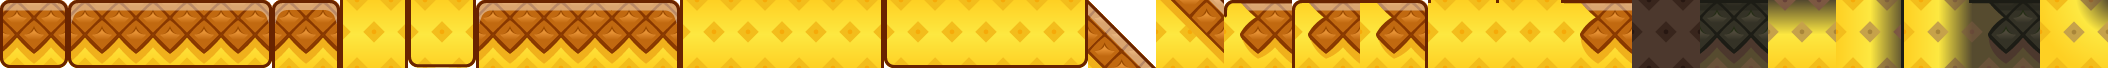
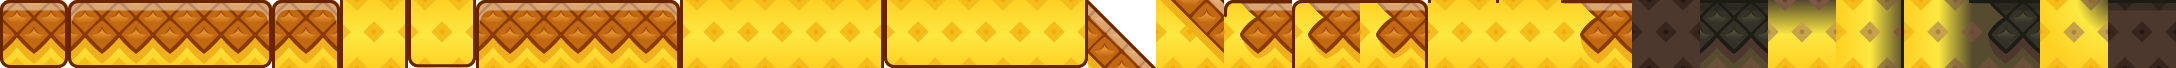
Sotto il soffitto delle grotte lo sprite 52

diff --git a/game.js b/game.js
@@ -46,7 +46,7 @@ const PIX={block:0,horizontal_left:1,horizontal_middle:2,horizontal_right:3,vert
 const ERBANAN=new Image();ERBANAN.src='assets/erbananas.webp'; /* il ciuffo d'ananas dell'utente al posto del cespuglio nel mondo 1 */
 /* in grandezza vera, alla scala delle caselle da 68 del paesaggio: così il bordo scuro è spesso come quello del pavimento */
 function ciuffo(c,x,y,ts){const w=ERBANAN.width*ts/68,h=ERBANAN.height*ts/68;if(w)c.drawImage(ERBANAN,x-w/2,y-h,w,h);}
-const PAES=new Image();PAES.src='assets/paesaggio.webp';const PAES_RAMPA=16,PAES_SOTTO=17,PAES_BORDO={m:18,g:19,v:20},PAES_UNIONE=21,PAES_COLONNA=22,PAES_LATO_COLONNA=23,PAES_GROTTA={fondo:24,pav:25,base:26,muro:27,muroPav:28,pavMuro:29,muroBase:30}; /* 17: la terra sotto una rampa a scalini, con la buccia della rampa dopo nell'angolo; 18-20: dove il piano finisce a sinistra, ai piedi di un muro più alto (m), con un gradino in giù (g) o sul vuoto (v); a destra si capovolgono, il bordo sul vuoto al contrario; 21: il muro accanto al bordo sul vuoto, dove le due linee si uniscono; 22: sotto una colonna, con il piano che arriva dai due lati; 23: il piano ai lati di quella colonna, senza l'uncino; 24-29: la grotta, sfondo, pavimento, la casella sotto il pavimento che torna gialla, il muro a sinistra (a destra si capovolge), e l'angolo: il muro alla quota del pavimento, la prima casella di pavimento accanto al muro e (30) il muro sotto, dove la sfumatura gira */
+const PAES=new Image();PAES.src='assets/paesaggio.webp';const PAES_RAMPA=16,PAES_SOTTO=17,PAES_BORDO={m:18,g:19,v:20},PAES_UNIONE=21,PAES_COLONNA=22,PAES_LATO_COLONNA=23,PAES_GROTTA={fondo:24,pav:25,base:26,muro:27,muroPav:28,pavMuro:29,muroBase:30,cielo:31}; /* 17: la terra sotto una rampa a scalini, con la buccia della rampa dopo nell'angolo; 18-20: dove il piano finisce a sinistra, ai piedi di un muro più alto (m), con un gradino in giù (g) o sul vuoto (v); a destra si capovolgono, il bordo sul vuoto al contrario; 21: il muro accanto al bordo sul vuoto, dove le due linee si uniscono; 22: sotto una colonna, con il piano che arriva dai due lati; 23: il piano ai lati di quella colonna, senza l'uncino; 24-29: la grotta, sfondo, pavimento, la casella sotto il pavimento che torna gialla, il muro a sinistra (a destra si capovolge), e l'angolo: il muro alla quota del pavimento, la prima casella di pavimento accanto al muro e (30) il muro sotto, dove la sfumatura gira; 31: l'interno sotto il soffitto */
 function paes(c,i,x,y,w,h,flip,capo){const s=c.imageSmoothingEnabled;c.imageSmoothingEnabled=false;if(flip||capo){c.save();c.translate(flip?x+w:x,capo?y+h:y);c.scale(flip?-1:1,capo?-1:1);c.drawImage(PAES,i*68,0,68,68,0,0,w,h);c.restore();}else c.drawImage(PAES,i*68,0,68,68,x,y,w,h);c.imageSmoothingEnabled=s;}
 function sp(c,n,x,y,w,h,flip){if(n.startsWith('terrain_sand_')&&PAES.complete){const t=n.slice(13);if(t==='ramp_short_b'){paes(c,PAES_RAMPA,x,y,w,h,flip);return;}if(t in PIX){paes(c,PIX[t],x,y,w,h);return;}}
  const q=KMAP[n],im=q&&q[2]?KIT2:KIT;if(!q||!im.complete)return;if(flip){c.save();c.translate(x+w,y);c.scale(-1,1);c.drawImage(im,q[0],q[1],96,96,0,0,w,h);c.restore();}else c.drawImage(im,q[0],q[1],96,96,x,y,w,h);}
@@ -518,7 +518,7 @@ function disegna2d(){
  for(const d of M.decor){if(d.x<c0-3||d.x>c1+3)continue;const a=sx(d.x)-ts/2,b=sy(3)-ts/2;if(d.n==='ananas')c.drawImage(ANAN,a,b,ts,ts);else if(d.n==='erbananas')ciuffo(c,sx(d.x+d.dx),sy(2.5),ts);else sp(c,d.n,a,b,ts,ts);}
  if(!M.boss){sp(c,'sign_right',sx(M.start.x+2)-ts/2,sy(3)-ts/2,ts,ts);sp(c,'sign_exit',sx(M.fine-3)-ts/2,sy(3)-ts/2,ts,ts);
  sp(c,'door_open',sx(M.fine+1)-ts*.8,sy(3)-ts*1.1,ts*1.6,ts*1.6);sp(c,'door_open_top',sx(M.fine+1)-ts*.8,sy(4)-ts*1.1,ts*1.6,ts*1.6);}
- for(const f of M.finti||[]){if(f[2]<c0||f[0]>c1)continue;for(let y=f[1];y<=f[3];y++)for(let x=f[0];x<=f[2];x++)if(!pieno(cel(x,y))){const a=sx(x)-ts/2,b=sy(y)-ts/2;paes(c,PAES_GROTTA.fondo,a,b,mz,mz);}}
+ for(const f of M.finti||[]){if(f[2]<c0||f[0]>c1)continue;for(let y=f[1];y<=f[3];y++)for(let x=f[0];x<=f[2];x++)if(!pieno(cel(x,y))){const a=sx(x)-ts/2,b=sy(y)-ts/2;paes(c,pieno(cel(x,y+1))?PAES_GROTTA.cielo:PAES_GROTTA.fondo,a,b,mz,mz);}}
  for(let y=Math.max(y0,-20);y<=y1;y++)for(let x=c0;x<=c1;x++){const a=sx(x)-ts/2,b=sy(y)-ts/2;
   if(y<=0&&cel(x,0)!=='#'){if(M.boss&&(x<0||x>=M.w))continue;sp(c,m.liquido+(y===0?(lento?'_top':'_top_low'):''),a,b,mz,mz);continue;}
   const t=y<0?'#':cel(x,y);if(t===' ')continue;

diff --git a/CLAUDE.md b/CLAUDE.md
@@ -36,7 +36,7 @@ Gioco per browser pensato per il telefono in orizzontale, pubblicato con GitHub 
   - `x` blocco che crolla: mezzo secondo dopo che ci sali cade, e torna dopo 4 secondi.
   - `y` botola: sembra terra, ma se ti fermi sopra crolla dopo 0,8 secondi. Per ora nel livello 1 non ce ne sono: l'utente non le voleva dove c'erano.
   - `X` muro crepato: si apre solo con l'esplosione.
-  - **Pareti finte** (rettangoli in `FINTI`): si disegnano come terra sopra quello che c'è dietro, si attraversano e sbiadiscono quando Matteo ci entra. Dietro c'è una grotta, con i pezzi dell'utente in `PAES_GROTTA`: sfondo `sprite-42.png`, pavimento `sprite-43.png` e sotto il pavimento `sprite-44.png`, che torna gialla. Il soffitto resta il giallo ananas normale: l'utente lo vuole così. I muri ai lati, nella colonna accanto alla grotta, sono `sprite-45.png` (a destra capovolto), ma solo se la grotta ha un pavimento: nei tunnel aperti sotto si vede solo l'interno. Negli angoli tra muro e pavimento il muro alla quota del pavimento è `sprite-46.png` la prima casella di pavimento è `sprite-48.png` e sotto il 46 va `sprite-49.png`, dove la sfumatura gira (a destra capovolti). `sprite-47.png` per ora è uguale al 45 e non si usa.
+  - **Pareti finte** (rettangoli in `FINTI`): si disegnano come terra sopra quello che c'è dietro, si attraversano e sbiadiscono quando Matteo ci entra. Dietro c'è una grotta, con i pezzi dell'utente in `PAES_GROTTA`: sfondo `sprite-42.png`, pavimento `sprite-43.png` e sotto il pavimento `sprite-44.png`, che torna gialla. Il soffitto resta il giallo ananas normale: l'utente lo vuole così; la fila dell'interno subito sotto è `sprite-52.png`, con la linea scura in cima. I muri ai lati, nella colonna accanto alla grotta, sono `sprite-45.png` (a destra capovolto), ma solo se la grotta ha un pavimento: nei tunnel aperti sotto si vede solo l'interno. Negli angoli tra muro e pavimento il muro alla quota del pavimento è `sprite-46.png` la prima casella di pavimento è `sprite-48.png` e sotto il 46 va `sprite-49.png`, dove la sfumatura gira (a destra capovolti). `sprite-47.png` per ora è uguale al 45 e non si usa.
 - Valide in tutto il gioco:
   - **Scatto:** quando colpisce il primo nemico elimina tutti quelli nel suo blocco (entro una casella più in là); se è partito slanciato (sopra velocità 8, `p.catena=2`) quelli entro due blocchi. Poi, se lo scatto era lento, Matteo si ferma e rimbalza indietro; se era slanciato va avanti senza fermarsi. `forte` si ricalcola per ogni nemico.
   - **Salto in testa:** cadendo sopra un nemico che cammina (`e`) o vola (`f`) lo uccide e rimbalza. Quelli con le spine (`r`) e i blocchi che sparano (`g`) fanno male anche dall'alto.
